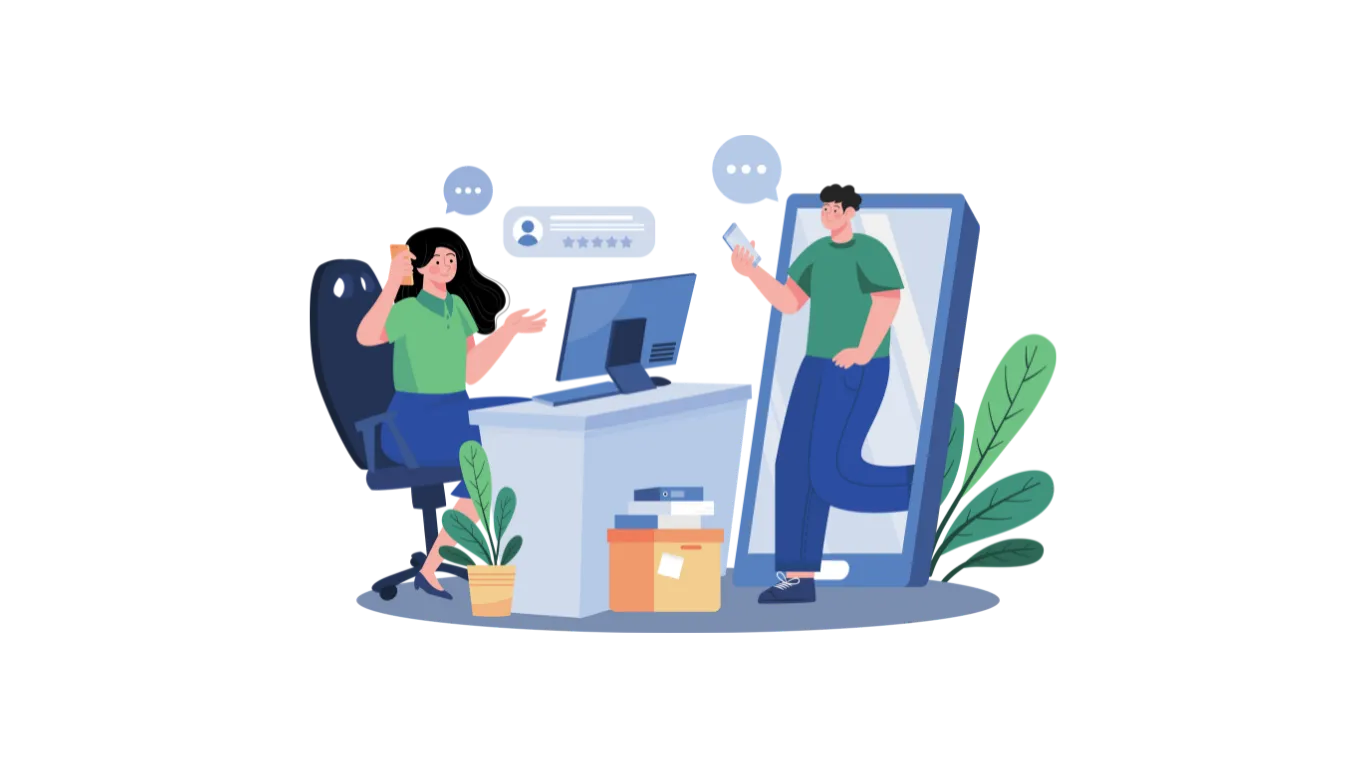
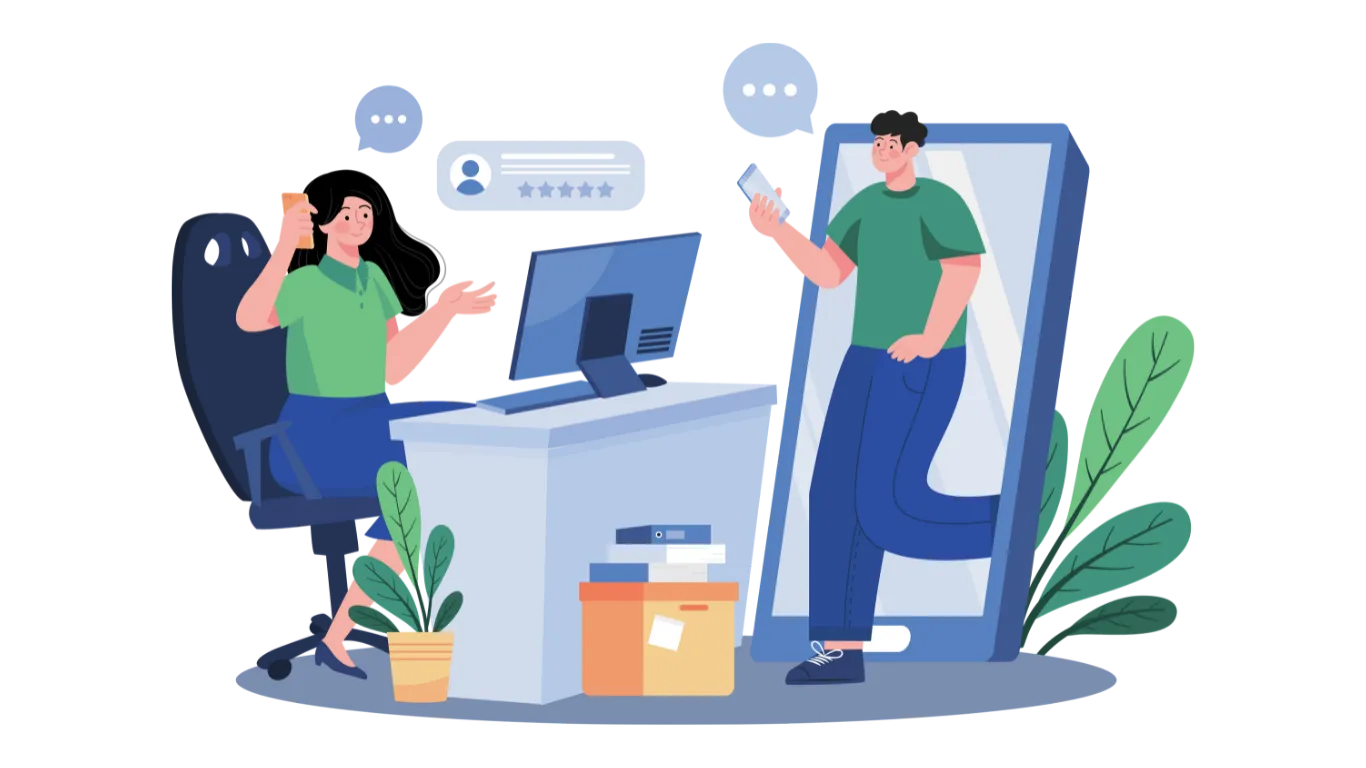
Optimizar countdown timer para móvil y actualizar información de contacto
- Modificar CountdownClock.tsx para ocultar segundos en vista móvil
- Añadir padding responsive y ajustar tamaños de fuente
- Cambiar texto de uppercase a capitalize en timer
- Eliminar texto "Producto" de página de producto
- Actualizar información de contacto:
  * Email: contacto@agoramy.com
  * Teléfono: xxxx-xxx-xxx-xx
  * Dirección: Ciudad de México, México
- Actualizar imagen de contacto

diff --git a/src/components/Common/CountdownClock.tsx b/src/components/Common/CountdownClock.tsx
@@ -37,16 +37,22 @@ const CountdownClock: React.FC<CountdownClockProps> = ({ targetDate }) => {
       return;
     }
 
+    // En móvil, ocultar segundos
+    const hideOnMobile = interval === 'segundos' ? 'hidden md:flex' : 'flex';
+
     timerComponents.push(
-      <div key={interval} className="flex flex-col items-center mx-2 p-4 bg-white border border-gray-200 rounded-lg shadow-lg">
-        <span className="text-4xl md:text-5xl font-bold text-gray-900">{timeLeft[interval as keyof typeof timeLeft]}</span>
-        <span className="text-sm uppercase text-gray-600 mt-1">{interval}</span>
+      <div
+        key={interval}
+        className={`${hideOnMobile} flex-col items-center mx-1.5 sm:mx-2 px-4 py-5 sm:px-5 sm:py-6 bg-white border border-gray-200 rounded-lg shadow-lg min-w-[70px] sm:min-w-[90px]`}
+      >
+        <span className="text-3xl sm:text-4xl md:text-5xl font-bold text-gray-900">{timeLeft[interval as keyof typeof timeLeft]}</span>
+        <span className="text-xs sm:text-sm capitalize text-gray-600 mt-1">{interval}</span>
       </div>
     );
   });
 
   return (
-    <div className="flex justify-center items-center mt-8 mb-12" data-aos="fade-up" data-aos-delay="250">
+    <div className="flex flex-wrap justify-center items-center gap-1 mt-8 mb-12 px-4" data-aos="fade-up" data-aos-delay="250">
       {timerComponents.length ? (
         timerComponents
       ) : (

diff --git a/src/components/Contact/ContactUs.tsx b/src/components/Contact/ContactUs.tsx
@@ -191,8 +191,8 @@ const ContactUs = () => {
             </span>
             <div className="grow">
               <h5 className="text-base text-gray-700">Correo Electrónico</h5>
-              <a href="#" className="text-gray-500 my-1">
-                youremail@gmail.com
+              <a href="mailto:contacto@agoramy.com" className="text-gray-500 my-1">
+                contacto@agoramy.com
               </a>
             </div>
           </div>
@@ -223,8 +223,8 @@ const ContactUs = () => {
             </span>
             <div className="grow">
               <h5 className="text-base text-gray-700">Teléfono</h5>
-              <a href="#" className="text-gray-500 my-1">
-                +00 123 456 7890
+              <a href="tel:xxxx-xxx-xxx-xx" className="text-gray-500 my-1">
+                xxxx-xxx-xxx-xx
               </a>
             </div>
           </div>
@@ -249,9 +249,9 @@ const ContactUs = () => {
             </span>
             <div className="grow">
               <h5 className="text-base text-gray-700">Dirección</h5>
-              <a href="#" className="text-gray-500 my-1">
-                565 Brrom Str, NY
-              </a>
+              <p className="text-gray-500 my-1">
+                Ciudad de México, México
+              </p>
             </div>
           </div>
         </div>
